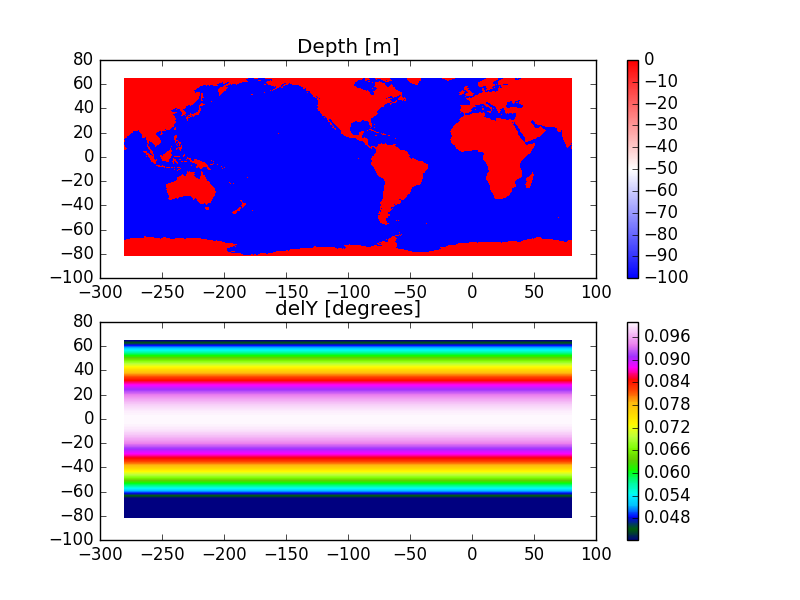
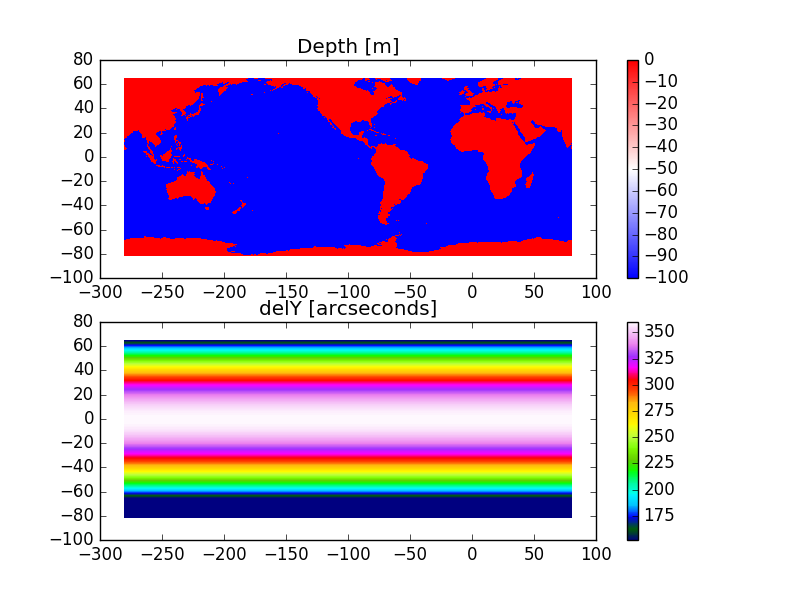
changed delY units from degrees to arcseconds

Changed region(s): [[0.7812, 0.54, 0.875, 0.87], [0.3125, 0.48, 0.5625, 0.54]]

diff --git a/bin_data_gen.py b/bin_data_gen.py
@@ -96,7 +96,7 @@ R_EARTH = 6.371*10**6   # equatorial radius of the earth in meters
 depth = (Z0*bathmask).astype(dtype='float64')
 
 Tcell_height = ncdata.variables[Tcell_height_key][0:cutoff_index:]
-delY = Tcell_height/R_EARTH*(180/math.pi)  # units are degrees
+delY = Tcell_height/R_EARTH*(180/math.pi)*3600  # units are arcseconds
 delY = delY.astype(dtype='float64')
 
 if np.shape(delY) != np.shape(bathmask):
@@ -113,7 +113,7 @@ if args.plot:
     plt.pcolormesh(lon, lat, depth, cmap='bwr')
     plt.colorbar()
     plt.subplot(2, 1, 2)
-    plt.title('delY [degrees]')
+    plt.title('delY [arcseconds]')
     plt.pcolormesh(lon, lat, delY, cmap='gist_ncar')
     plt.colorbar()
     plt.savefig(out_folder+"grid_verification.png")
